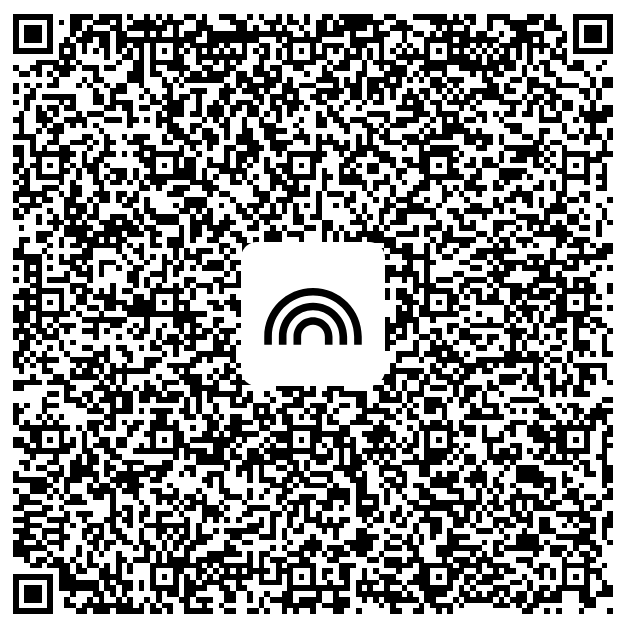
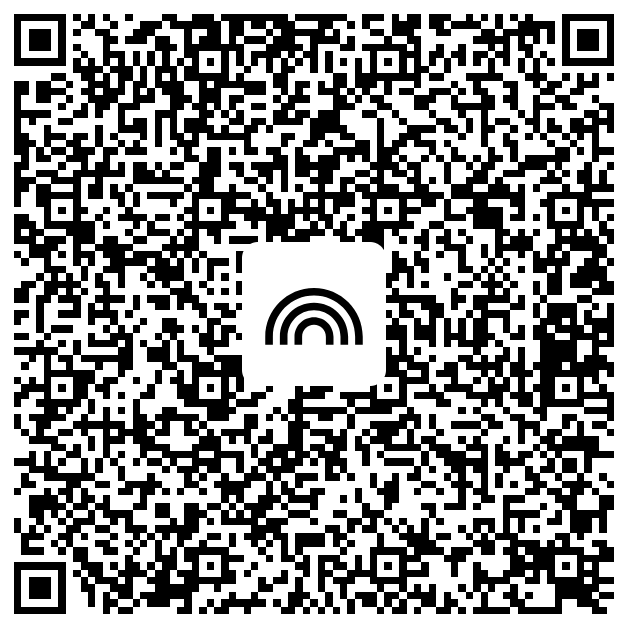
Update bridges.md

diff --git a/docs/bridges.md b/docs/bridges.md
@@ -19,14 +19,14 @@ Please read the Tor Project's bridge [documentation](https://tb-manual.torprojec
 Near **Kansas City, USA**:
 
 ```
-Bridge obfs4 103.17.154.136:3389 224C0D16115E030C50579B0B9C2A644421072F66 cert=q7b3in5QkM7/w+Pu+Aze2PPJaPfW7UIygHBg1Y1Wbi/2vH6UQGJsSsgUlvdeG5qPhdC2Og iat-mode=0
+Bridge obfs4 103.17.154.136:443 224C0D16115E030C50579B0B9C2A644421072F66 cert=q7b3in5QkM7/w+Pu+Aze2PPJaPfW7UIygHBg1Y1Wbi/2vH6UQGJsSsgUlvdeG5qPhdC2Og iat-mode=1
 webtunnel 10.0.2.2:443 D965164C1D9FB4FDD92E4FD5CDC6005E7820A687 url=https://cdn-25.triplebit.dev/nLcyjWAU3ILGenSItxtDAIJy
 ```
 
 Near **Warsaw, Poland**:
 
 ```
-Bridge obfs4 103.17.153.49:3389 E3E13A69A1A6947E3D5B8C0A3C16D07829F57F07 cert=qULg51W+WSsESmuB46yimCcCpSDkkifwO1ctodpmaGuV2a9GKANf/Cwy7tdaBiucdIRCWA iat-mode=0
+Bridge obfs4 103.17.153.49:443 E3E13A69A1A6947E3D5B8C0A3C16D07829F57F07 cert=qULg51W+WSsESmuB46yimCcCpSDkkifwO1ctodpmaGuV2a9GKANf/Cwy7tdaBiucdIRCWA iat-mode=1
 webtunnel 10.0.2.3:443 B094B41CA85C7A61FCBC11E671AA6D31737F9FB4 url=https://cdn-47.triplebit.dev/ua5noh9xeHiehe4h
 ```
 
